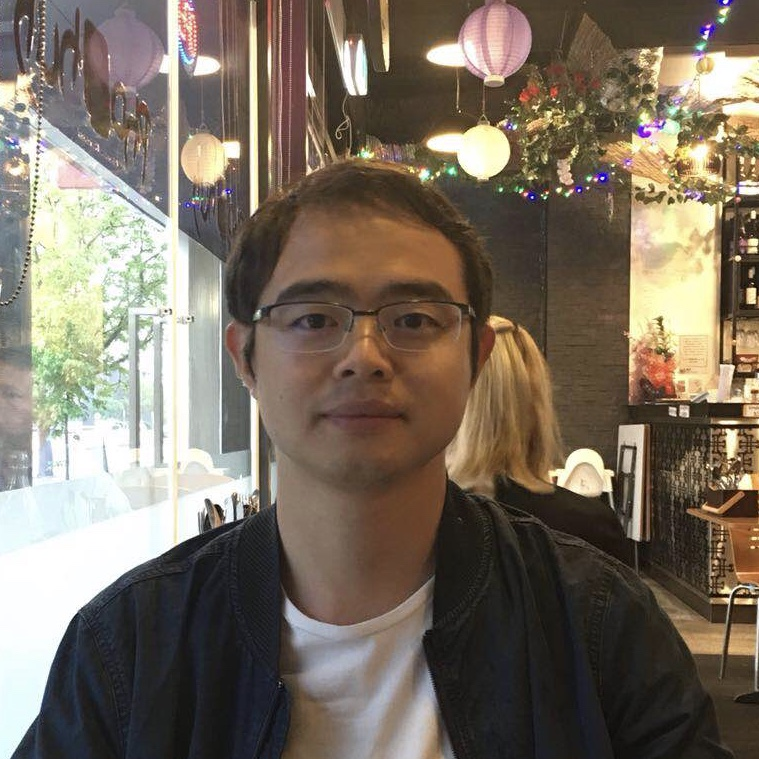
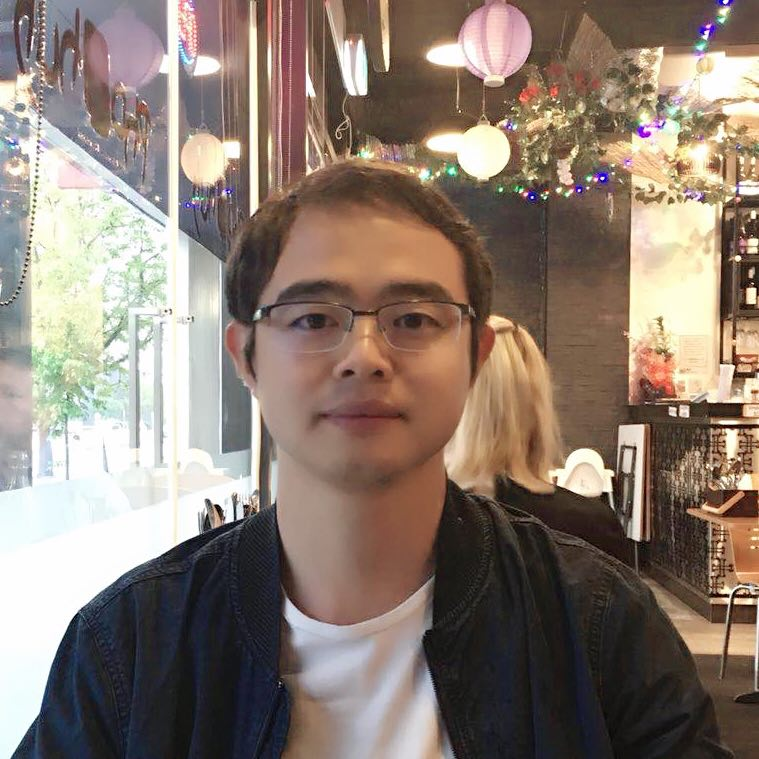
update photo

diff --git a/index.html b/index.html
@@ -93,7 +93,7 @@
         <div class="container">
             <div class="row">
                 <div class="col-lg-12">
-                    <img class="img-responsive" src="img/zhuang.jpg" width="200" height="200" alt="profile">
+                    <img class="img-responsive" src="img/zhuang.jpeg" width="250" height="250" alt="profile">
                     <div class="intro-text">
                         <span class="name">Zhuang Wang</span>
                         <hr class="star-light">
